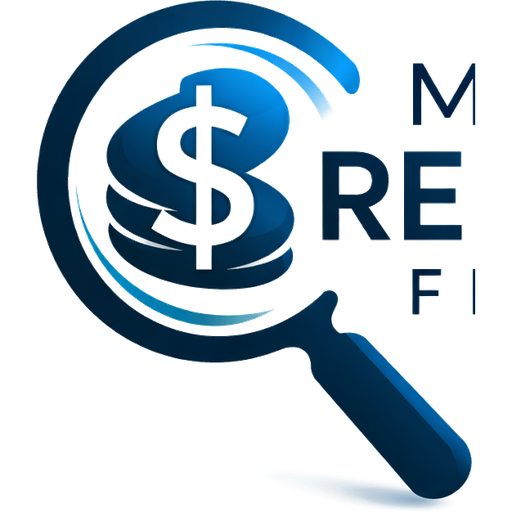
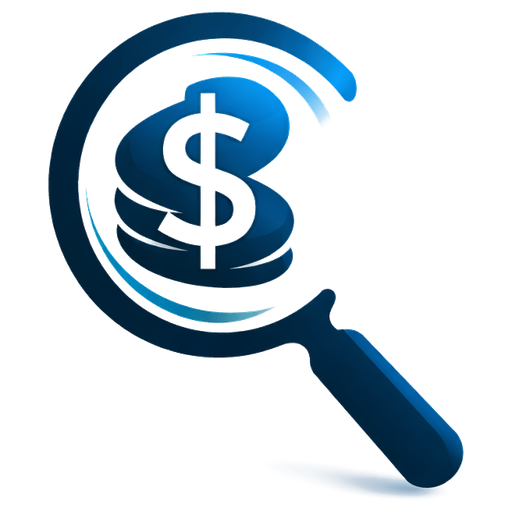
UI: brand block + split login, navy hero on client and lead records, Cases board over the 21 steps, plain content ground
Claude-Session: https://claude.ai/code/session_01UreL2XrfCxz3HoUNG5xzDS

diff --git a/src/app/(app)/clients/[id]/page.tsx b/src/app/(app)/clients/[id]/page.tsx
@@ -8,7 +8,7 @@ import { timeline, openSignRequest, channelState } from "@/lib/services/comms";
 import { db, schema } from "@/db";
 import { and, eq, isNull, ne } from "drizzle-orm";
 import * as R from "@/lib/rules";
-import { StageChip, SCChips, Section } from "@/components/ui";
+import { StageChip, SCChips } from "@/components/ui";
 import { SetInactiveButton, BinButton } from "@/components/actionsClient";
 import { SelectField } from "@/components/fields";
 import { LeadScreen } from "./LeadScreen";
@@ -32,20 +32,21 @@ export default async function ClientPage({ params, searchParams }: { params: Pro
   return (
     <>
       {c.checklist && <div className="warn-box mb-3.5">Migration check-list: {c.checklist}</div>}
-      <Section className="!pb-0 !bg-panel">
+      <div className="hero !pb-0">
         <div className="flex flex-wrap justify-between gap-x-6 gap-y-4 items-start">
-          <div><h1>{R.displayName(c)} <span className="meta font-head font-medium">{c.clientCode}</span></h1><div className="flex flex-wrap gap-2 items-center mt-2"><StageChip stage={c.stage} /><SCChips list={c.specialConditions} empty="" />{c.stage === "INACTIVE" && c.inactiveReason && <span className="chip">{c.inactiveReason}</span>}{c.stage === "LEAD" && <Link href={`/clients/${c.id}?tab=lead`} className="link text-[13px]">Lead screen</Link>}</div></div>
-          <div className="flex flex-wrap gap-x-7 gap-y-3 text-[12.5px] font-semibold text-ink3 items-end">
-            <div className="flex flex-col gap-0.5">Owner<span className="text-[14px] text-ink">{t.isAdmin ? <SelectField kind="client" id={c.id} field="ownerCode" value={c.ownerCode} options={users.map(u => u.userCode)} className="!h-7 !text-[13px] !w-auto" /> : c.ownerCode}</span></div>
-            <div className="flex flex-col gap-0.5">Last contact<Link href={`/clients/${c.id}?tab=summary#notes`} className="text-[14px] text-ink font-semibold">{c.lastContact ? `${R.fmtDate(c.lastContact, false)} · ${R.daysBetween(c.lastContact, t.today)} days` : "—"}</Link></div>
-            <div className="flex flex-col gap-0.5">Next follow-up<Link href={`/clients/${c.id}?tab=summary#followups`} className={`text-[14px] font-semibold ${nf?.overdue ? "red" : "text-ink"}`}>{nf ? `${R.fmtDate(nf.date, false)}${nf.overdue ? " · overdue" : ""}` : "—"}</Link></div>
-            <div className="flex flex-col gap-0.5">Open claims<Link href={`/clients/${c.id}?tab=claims`} className="text-[14px] text-ink font-semibold">{open.length}</Link></div>
-            <div className="flex flex-col gap-0.5">Last updated<span className="text-[14px] text-ink font-semibold">{c.lastUpdatedBy ?? "—"}, {R.fmtDate(c.lastUpdatedAt.toISOString().slice(0, 10))}</span></div>
-            <div className="flex gap-2">{c.stage !== "INACTIVE" && <SetInactiveButton clientId={c.id} openClaims={open.length} name={R.displayName(c)} />}{t.isAdmin && <BinButton kind="client" id={c.id} />}</div>
-          </div>
+          <div className="min-w-0"><div className="meta mb-1.5"><Link href={c.stage === "LEAD" ? "/leads" : "/clients"} className="no-underline">{c.stage === "LEAD" ? "Leads" : "Clients"}</Link> › {c.clientCode || "No code yet"}</div><h1>{R.displayName(c)}</h1><div className="flex flex-wrap gap-2 items-center mt-2.5"><StageChip stage={c.stage} /><SCChips list={c.specialConditions} empty="" />{c.stage === "INACTIVE" && c.inactiveReason && <span className="chip">{c.inactiveReason}</span>}{c.stage === "LEAD" && <Link href={`/clients/${c.id}?tab=lead`} className="link text-[13px]">Lead screen</Link>}</div></div>
+          <div className="flex gap-2 flex-wrap">{c.stage !== "INACTIVE" && <SetInactiveButton clientId={c.id} openClaims={open.length} name={R.displayName(c)} />}{t.isAdmin && <BinButton kind="client" id={c.id} />}</div>
+        </div>
+        <div className="stat-row">
+          <div>Owner{t.isAdmin ? <SelectField kind="client" id={c.id} field="ownerCode" value={c.ownerCode} options={users.map(u => u.userCode)} className="!h-7 !text-[13px] !w-auto" /> : <span>{c.ownerCode}</span>}</div>
+          <div>Last contact<Link href={`/clients/${c.id}?tab=summary#notes`}>{c.lastContact ? `${R.fmtDate(c.lastContact, false)} · ${R.daysBetween(c.lastContact, t.today)} days` : "—"}</Link></div>
+          <div>Next follow-up<Link href={`/clients/${c.id}?tab=summary#followups`} className={nf?.overdue ? "red" : ""}>{nf ? `${R.fmtDate(nf.date, false)}${nf.overdue ? " · overdue" : ""}` : "—"}</Link></div>
+          <div>Open claims<Link href={`/clients/${c.id}?tab=claims`}>{open.length}</Link></div>
+          <div>Lead amount<span>{R.money(c.leadAmount)}</span></div>
+          <div>Last updated<span>{c.lastUpdatedBy ?? "—"}, {R.fmtDate(c.lastUpdatedAt.toISOString().slice(0, 10), false)}</span></div>
         </div>
         <nav className="tabs" aria-label="Client tabs">{tabs.map(([k, l]) => <Link key={k} href={`/clients/${c.id}?tab=${k}`} className={tab === k ? "on" : ""}>{l}</Link>)}</nav>
-      </Section>
+      </div>
       <div className="mt-5">
         {tab === "profile" ? <ProfileTab {...ctx} /> : tab === "claims" ? <ClaimsTab {...ctx} focus={sp.claim} /> : tab === "documents" ? <DocumentsTab {...ctx} /> : <SummaryTab {...ctx} />}
       </div>

diff --git a/src/app/(app)/cases/page.tsx b/src/app/(app)/cases/page.tsx
@@ -1,0 +1,42 @@
+import Link from "next/link";
+import { requireTenant } from "@/lib/tenant";
+import { listClaims, allFollowUps, authorityMap } from "@/lib/services/queries";
+import * as R from "@/lib/rules";
+import { PageHead } from "@/components/PageHead";
+
+/** Cases: every open claim on a board of six stages, so the 21 sub-steps read as a pipeline. */
+export default async function CasesPage({ searchParams }: { searchParams: Promise<{ ha?: string; owner?: string; closed?: string }> }) {
+  const t = await requireTenant(); const sp = await searchParams;
+  const [ks, fus, { list: has }] = await Promise.all([listClaims(t, { view: "all", ha: sp.ha, owner: sp.owner }), allFollowUps(t), authorityMap(t)]);
+  const nextBy = new Map<string, R.FollowUp>(); for (const f of fus) if (f.claimId && !nextBy.has(f.claimId)) nextBy.set(f.claimId, f);
+  const open = ks.filter(k => k.progress != null && !R.CLOSING_STEPS.includes(k.progress)), closed = ks.filter(k => k.progress != null && R.CLOSING_STEPS.includes(k.progress)), blank = ks.filter(k => k.progress == null);
+  const owners = Array.from(new Set(ks.map(k => k.client.ownerCode))).sort();
+  const total = open.reduce((s, k) => s + (Number(k.amount) || 0), 0);
+  const q = (patch: Record<string, string | undefined>) => { const u = new URLSearchParams(); for (const [k, v] of Object.entries({ ...sp, ...patch })) if (v) u.set(k, v); const s = u.toString(); return `/cases${s ? `?${s}` : ""}`; };
+  return (
+    <>
+      <PageHead title="Cases" count={`${open.length} open · ${R.money(total)}`} lede="Every open claim, left to right from opened to paid. A red edge means its follow-up is overdue." right={<Link href="/claims" className="btn">Claims list & views</Link>} />
+      <div className="flex flex-wrap gap-x-5 gap-y-2 mb-4 items-center">
+        <div className="views"><Link href={q({ ha: undefined })} className={!sp.ha ? "on" : ""}>All authorities</Link>{has.filter(h => ks.some(k => k.authorityId === h.id)).map(h => <Link key={h.id} href={q({ ha: h.id })} className={sp.ha === h.id ? "on" : ""}>{h.name}</Link>)}</div>
+        {owners.length > 1 && <div className="views"><span className="meta self-center">Owner</span><Link href={q({ owner: undefined })} className={!sp.owner ? "on" : ""}>All</Link>{owners.map(o => <Link key={o} href={q({ owner: o })} className={sp.owner === o ? "on" : ""}>{o}</Link>)}</div>}
+      </div>
+      <div className="board">
+        {R.CASE_STAGES.map(st => { const cards = open.filter(k => st.steps.includes(k.progress!)); const sum = cards.reduce((s, k) => s + (Number(k.amount) || 0), 0); return (
+          <div key={st.key} className="col"><h3>{st.label}<span>{cards.length}{sum ? ` · ${R.money(sum).replace(/\.\d\d$/, "")}` : ""}</span></h3>
+            {cards.map(k => { const nf = nextBy.get(k.id); return <Link key={k.id} href={`/clients/${k.clientId}?tab=claims&claim=${k.id}`} className={`ccard ${nf?.overdue ? "over" : ""}`}>
+              <b>{R.displayName(k.client)}</b>
+              <span className="meta">{k.claimId} · {k.authority.name}</span>
+              <div className="mt-1.5 font-semibold tabular-nums">{R.money(k.amount, k.currency === "NZD" ? "NZD" : undefined)}</div>
+              <div className="meta">{k.progress} · {R.stepName(k.progress, t.org.shortName).replace(/^Holding Authority /, "HA ").replace("Authority to Act", "A2A")}</div>
+              {nf && <div className={`meta mt-1 ${nf.overdue ? "red" : ""}`}>{nf.overdue ? "Overdue " : "Follow up "}{R.fmtDate(nf.date, false)} · {nf.kind === "ha" ? "chase authority" : nf.kind === "a2a" ? "chase A2A" : nf.sub || "follow-up"}</div>}
+            </Link>; })}
+            {!cards.length && <div className="meta px-1.5 pb-1">{st.hint}</div>}
+          </div>); })}
+      </div>
+      <div className="flex flex-wrap gap-5 mt-5 meta">
+        <span>{closed.length} closed claim{closed.length === 1 ? "" : "s"} — <Link href="/claims?view=all" className="link">see the full list</Link></span>
+        {blank.length > 0 && <span className="chip chip-amber">{blank.length} with no progress set (migration check-list)</span>}
+      </div>
+    </>
+  );
+}

diff --git a/src/app/(app)/clients/[id]/LeadScreen.tsx b/src/app/(app)/clients/[id]/LeadScreen.tsx
@@ -16,15 +16,21 @@ export function LeadScreen({ t, c, fus, byId, tl, openSign, emailState, smsState
   const search = c.searchLog[0]; const hasEmail = !!firstEmail(c.email), hasMobile = !!toE164(c.phoneMobile);
   return (
     <>
-      <div className="meta mb-2.5"><Link href="/leads" className="text-ink3">Leads</Link> › {c.leadIdentifier || "No identifier"}</div>
       {c.checklist && <div className="warn-box mb-3.5">Migration check-list: {c.checklist}</div>}
-      <Section className="!bg-panel">
-        <div className="flex flex-wrap items-center gap-x-6 gap-y-4">
-          <div className="flex-1 basis-[360px]"><h1>{R.displayName(c)}</h1><div className="flex flex-wrap gap-2 items-center mt-2"><span className="chip">Lead</span><SCChips list={c.specialConditions} empty="" /><ConsentChips clientId={c.id} email={emailState} sms={smsState} /><span className="meta">{c.clientType === "BUSINESS" ? "Business" : "Individual"} · Owner <b>{c.ownerCode}</b> · Last updated by <b>{c.lastUpdatedBy ?? "—"}</b>, {R.fmtDate(c.lastUpdatedAt.toISOString().slice(0, 10))}</span></div></div>
-          <label className="label uppercase tracking-wider text-[12px]">Lead Identifier<LeadIdentifierSelect clientId={c.id} value={c.leadIdentifier} /></label>
-          <div className="flex gap-2.5 flex-wrap"><LogCallButton clientId={c.id} hasEmail={hasEmail} emailState={emailState} primary /><SendMessageButton clientId={c.id} templateKey="info_email" label="Send info email" /><SendA2AButton clientId={c.id} hasEmail={hasEmail} hasMobile={hasMobile} open={openSign} /><Link href={`/clients/${c.id}?tab=profile`} className="btn">Full record</Link><SetInactiveButton clientId={c.id} openClaims={0} name={R.displayName(c)} /></div>
+      <div className="hero">
+        <div className="flex flex-wrap items-start gap-x-6 gap-y-4">
+          <div className="flex-1 basis-[360px] min-w-0"><div className="meta mb-1.5"><Link href="/leads" className="no-underline">Leads</Link> › {c.leadIdentifier || "No identifier"}</div><h1>{R.displayName(c)}</h1><div className="flex flex-wrap gap-2 items-center mt-2.5"><span className="chip chip-blue">Lead</span><SCChips list={c.specialConditions} empty="" /><ConsentChips clientId={c.id} email={emailState} sms={smsState} /></div></div>
+          <label className="label text-[12px]">Lead Identifier<LeadIdentifierSelect clientId={c.id} value={c.leadIdentifier} /></label>
         </div>
-      </Section>
+        <div className="stat-row">
+          <div>Lead amount<span>{R.money(c.leadAmount)}</span></div>
+          <div>Last contact<span>{c.lastContact ? `${R.fmtDate(c.lastContact, false)} · ${R.daysBetween(c.lastContact, t.today)}d` : "never"}</span></div>
+          <div>Next follow-up<span className={fus[0]?.overdue ? "red" : ""}>{fus[0] ? `${R.fmtDate(fus[0].date, false)}${fus[0].overdue ? " · overdue" : ""}` : "—"}</span></div>
+          <div>Owner<span>{c.ownerCode}</span></div>
+          <div>Source<span>{c.source || "—"}</span></div>
+        </div>
+        <div className="flex gap-2.5 flex-wrap mt-5"><LogCallButton clientId={c.id} hasEmail={hasEmail} emailState={emailState} primary /><SendMessageButton clientId={c.id} templateKey="info_email" label="Send info email" /><SendA2AButton clientId={c.id} hasEmail={hasEmail} hasMobile={hasMobile} open={openSign} /><Link href={`/clients/${c.id}?tab=profile`} className="btn">Full record</Link><SetInactiveButton clientId={c.id} openClaims={0} name={R.displayName(c)} /></div>
+      </div>
       <div className="flex flex-wrap gap-5 items-start mt-5">
         <div className="flex-1 basis-[420px] flex flex-col gap-5 min-w-0">
           <Section title="Contact"><div className="grid2">

diff --git a/src/components/Shell.tsx b/src/components/Shell.tsx
@@ -4,24 +4,28 @@ import type { Tenant } from "@/lib/tenant";
 import { SearchBox } from "./SearchBox";
 import { SideNav, UserMenu } from "./NavClient";
 
+/** App frame: brand block + navigation down the left, search and account across the top, calm content area. */
 export function Shell({ t, due, children }: { t: Tenant; due: number; children: React.ReactNode }) {
   const groups: { label: string; items: { href: string; label: string; badge?: number }[] }[] = [
-    { label: "Work", items: [{ href: "/today", label: "Today" }, { href: "/leads", label: "Leads" }, { href: "/clients", label: "Clients" }, { href: "/claims", label: "Claims" }, { href: "/followups", label: "Follow-ups", badge: due }] },
-    { label: "Insight", items: [{ href: "/reports", label: "Reports" }] },
+    { label: "Work", items: [{ href: "/today", label: "Today" }, { href: "/leads", label: "Leads" }, { href: "/clients", label: "Clients" }, { href: "/cases", label: "Cases" }, { href: "/followups", label: "Follow-ups", badge: due }] },
+    { label: "Insight", items: [{ href: "/claims", label: "Claims" }, { href: "/reports", label: "Reports" }] },
     { label: "Setup", items: [{ href: "/import", label: "Import leads" }, ...(t.isAdmin ? [{ href: "/settings", label: "Settings" }] : [])] },
   ];
   return (
     <div className="h-screen grid grid-cols-1 md:grid-cols-[var(--navW)_1fr] grid-rows-[var(--topH)_auto_1fr] md:grid-rows-[var(--topH)_1fr]">
-      <header className="col-span-full flex items-center gap-[18px] px-4 sm:px-[22px] border-b border-line bg-bg">
-        <Link href="/today" aria-label="Home" className="flex items-center"><Image src="/mrf-logo.png" alt={t.org.name} width={34} height={28} className="h-7 w-auto" priority /></Link>
-        <span className="font-head font-medium text-[15px] text-ink2 pl-[18px] border-l border-line hidden sm:inline">{t.org.shortName} · {t.org.name}</span>
-        <div className="flex-1" />
+      <Link href="/today" aria-label="Home" className="brand hidden md:flex row-span-1 md:row-start-1 md:col-start-1 items-center gap-3 px-5 border-b border-r border-line no-underline">
+        <Image src="/brand/mark.png" alt="" width={34} height={34} className="h-[34px] w-[34px]" priority />
+        <span className="leading-none"><span className="block font-head font-semibold text-[15.5px] tracking-[-.01em] text-ink">My Refund Finder</span><span className="block text-[11.5px] text-ink3 mt-1">{t.org.shortName} workspace</span></span>
+      </Link>
+      <header className="col-span-full md:col-span-1 md:col-start-2 md:row-start-1 flex items-center gap-4 px-4 sm:px-7 border-b border-line bg-bg">
+        <Link href="/today" aria-label="Home" className="md:hidden flex items-center"><Image src="/brand/mark.png" alt="" width={30} height={30} priority /></Link>
         <SearchBox />
+        <div className="flex-1" />
         <UserMenu code={t.membership.userCode} name={t.user.name} role={t.membership.role} org={t.org.name} />
       </header>
       <SideNav groups={groups} />
-      <main className="overflow-y-auto overflow-x-hidden grid-bg">
-        <div className="px-4 sm:px-11 py-7 sm:py-10 max-w-[1280px]">{children}</div>
+      <main className="overflow-y-auto overflow-x-hidden bg-bg md:col-start-2 md:row-start-2">
+        <div className="px-4 sm:px-10 py-6 sm:py-9 max-w-[1240px]">{children}</div>
       </main>
     </div>
   );

diff --git a/src/app/globals.css b/src/app/globals.css
@@ -105,4 +105,39 @@
   .span2 { @apply sm:col-span-2; }
   .span3 { @apply sm:col-span-3; }
   .eyebrow { @apply text-[12px] font-semibold tracking-[.08em] uppercase text-ink3; }
+  /* Record hero: the one navy moment on a page. Everything below it is hairline panels. */
+  .hero { @apply rounded-[16px] px-6 py-5 text-white; background: linear-gradient(135deg, #0C3C60 0%, #124B78 60%, #185A8E 100%); }
+  .hero h1 { @apply text-white; }
+  .hero .meta, .hero .meta b { color: rgba(255,255,255,.72); }
+  .hero .meta b { color: #fff; }
+  .hero .chip { border-color: rgba(255,255,255,.35); color: #fff; }
+  .hero .chip-lime { background: var(--color-lime); border-color: var(--color-lime); color: #0C3C60; }
+  .hero .chip-red { background: #e34749; border-color: #e34749; color: #fff; }
+  .hero .chip-amber { background: var(--color-amber); border-color: var(--color-amber); color: #0C3C60; }
+  .hero .chip-blue { background: rgba(255,255,255,.14); border-color: rgba(255,255,255,.35); color: #fff; }
+  .hero .btn { border-color: rgba(255,255,255,.4); color: #fff; }
+  .hero .btn:hover { border-color: #fff; }
+  .hero .btn-primary { background: var(--color-lime); border-color: var(--color-lime); color: #0C3C60; }
+  .hero .btn-danger { color: #ffb4b5; }
+  .hero .input, .hero select.input { background: rgba(255,255,255,.1); border-color: rgba(255,255,255,.35); color: #fff; }
+  .hero .label { color: rgba(255,255,255,.65); }
+  .hero .link, .hero .tabs a { color: #fff; }
+  .hero .link { text-decoration-color: rgba(255,255,255,.4); }
+  .hero .red { color: #ffb4b5 !important; }
+  .hero .stat-row { @apply flex flex-wrap gap-x-8 gap-y-3 mt-5 pt-4; border-top: 1px solid rgba(255,255,255,.18); }
+  .hero .stat-row > div { @apply flex flex-col gap-0.5 text-[12px]; color: rgba(255,255,255,.62); }
+  .hero .stat-row > div > * { @apply text-[15px] font-semibold text-white no-underline; }
+  .hero .tabs { border-color: rgba(255,255,255,.18); @apply mt-5; }
+  .hero .tabs a { color: rgba(255,255,255,.65); }
+  .hero .tabs a.on { color: #fff; border-color: var(--color-lime); }
+  .board { @apply grid gap-3 items-start grid-cols-1 sm:grid-cols-2 lg:grid-cols-3 min-[1560px]:grid-cols-6; }
+  .col { @apply rounded-[14px] p-2.5 min-w-0; background: var(--panel); }
+  .col h3 { @apply flex justify-between items-baseline text-[14px] px-1.5 pt-1 pb-2 gap-2; }
+  .col h3 span { @apply whitespace-nowrap; }
+  .col h3 span { @apply text-[12.5px] font-normal text-ink3; }
+  .ccard { @apply block rounded-[10px] border border-line px-3 py-2.5 mb-2 no-underline text-[13.5px] leading-snug; background: var(--bg); }
+  .ccard:hover { border-color: var(--ink3); }
+  .ccard b { @apply block text-[14px]; }
+  .ccard .meta { @apply text-[12.5px]; }
+  .ccard.over { box-shadow: inset 3px 0 0 var(--color-red); }
 }

diff --git a/src/app/(auth)/layout.tsx b/src/app/(auth)/layout.tsx
@@ -1,10 +1,21 @@
 import Image from "next/image";
 export default function AuthLayout({ children }: { children: React.ReactNode }) {
   return (
-    <div className="min-h-screen grid-bg flex items-start justify-center px-4 py-12">
-      <div className="w-full max-w-[460px]">
-        <div className="flex items-center gap-3 mb-6"><Image src="/mrf-logo.png" alt="MRFP" width={56} height={46} className="h-11 w-auto" /><div><div className="font-head font-semibold text-[22px] tracking-tight">MRFP</div><div className="meta">Leads, clients, claims and follow-ups for refund finders</div></div></div>
-        {children}
+    <div className="min-h-screen grid lg:grid-cols-[1fr_1fr]">
+      <aside className="hidden lg:flex flex-col justify-between bg-navy text-white px-14 py-12 relative overflow-hidden">
+        <div className="absolute inset-0 grid-bg opacity-60" style={{ ["--grid" as string]: "rgba(255,255,255,.06)", ["--dot" as string]: "rgba(255,255,255,.18)" }} aria-hidden />
+        <Image src="/brand/lockup.png" alt="My Refund Finder" width={300} height={200} className="relative w-[280px] h-auto brightness-0 invert" priority />
+        <div className="relative max-w-[42ch]">
+          <p className="font-head text-[34px] leading-[1.1] tracking-[-.02em] font-semibold">Every lead, claim and follow-up, in one place.</p>
+          <p className="mt-4 text-[15.5px] text-white/70">Calls logged, authorities chased, Authority to Act signed online — with the follow-up dates worked out for you.</p>
+        </div>
+        <p className="relative text-[12.5px] text-white/50">My Refund Finder Platform</p>
+      </aside>
+      <div className="flex items-center justify-center px-5 py-12">
+        <div className="w-full max-w-[400px]">
+          <Image src="/brand/lockup.png" alt="My Refund Finder" width={200} height={133} className="lg:hidden w-[170px] h-auto mb-8" priority />
+          {children}
+        </div>
       </div>
     </div>
   );

diff --git a/src/components/NavClient.tsx b/src/components/NavClient.tsx
@@ -9,12 +9,12 @@ export function SideNav({ groups }: { groups: Group[] }) {
   const path = usePathname();
   const on = (href: string) => path === href || path.startsWith(href + "/");
   return (
-    <nav aria-label="Main" className="border-b md:border-b-0 md:border-r border-line px-3 py-2 md:py-[18px] md:pb-6 md:overflow-y-auto bg-bg flex md:block gap-1 overflow-x-auto">
+    <nav aria-label="Main" className="border-b md:border-b-0 md:border-r border-line px-3 py-2 md:py-4 md:pb-6 md:overflow-y-auto bg-bg flex md:block gap-1 overflow-x-auto md:row-start-2">
       {groups.map(g => (
         <div key={g.label} className="flex md:block gap-1 items-center">
-          <div className="hidden md:block text-[12.5px] text-ink3 px-3 pt-4 pb-1.5 first:pt-0">{g.label}</div>
+          <div className="hidden md:block text-[12px] text-ink3 px-3 pt-5 pb-1.5 first:pt-1">{g.label}</div>
           {g.items.map(i => (
-            <Link key={i.href} href={i.href} aria-current={on(i.href) ? "page" : undefined} className={`flex items-center justify-between md:w-full rounded-lg px-3 py-2 text-[15px] no-underline whitespace-nowrap ${on(i.href) ? "text-ink bg-panel shadow-[inset_3px_0_0_var(--color-lime)]" : "text-ink2 hover:text-ink hover:bg-panel"}`}>
+            <Link key={i.href} href={i.href} aria-current={on(i.href) ? "page" : undefined} className={`flex items-center justify-between md:w-full rounded-lg px-3 py-[7px] text-[14.5px] no-underline whitespace-nowrap ${on(i.href) ? "text-ink bg-panel font-semibold shadow-[inset_3px_0_0_var(--color-lime)]" : "text-ink2 hover:text-ink hover:bg-panel"}`}>
               <span>{i.label}</span>
               {i.badge ? <span className="ml-2 bg-red text-white rounded-full px-1.5 py-px text-[12px] font-semibold leading-tight" aria-label={`${i.badge} due`}>{i.badge}</span> : null}
             </Link>

diff --git a/src/lib/rules.ts b/src/lib/rules.ts
@@ -13,6 +13,15 @@ export const STEPS: [number, string][] = [
 ];
 export const stepName = (n: number | null | undefined, org = "MRF") => n ? (STEPS.find(s => s[0] === n)?.[1] ?? "").replace("{ORG}", org) : "";
 export const CLOSING_STEPS = [16, 17, 18, 19, 20, 21];
+/** The six stages the Cases board groups the 21 steps into. */
+export const CASE_STAGES: { key: string; label: string; steps: number[]; hint: string }[] = [
+  { key: "start", label: "Not started", steps: [1], hint: "Opened, nothing sent yet" },
+  { key: "a2a", label: "Authority to Act", steps: [2, 3], hint: "Sent · signed" },
+  { key: "docs", label: "Evidence & forms", steps: [4, 5, 6], hint: "ID & address · authority forms" },
+  { key: "ha", label: "With the authority", steps: [7, 8, 9], hint: "Submitted · more info · resent" },
+  { key: "refund", label: "Approved & refund", steps: [10, 11, 12], hint: "Approved · refund received" },
+  { key: "invoice", label: "Invoice & review", steps: [13, 14, 15], hint: "Invoice sent · paid · review" },
+];
 export const PAID_STEPS = [14, 15, 16, 17]; // reached MRF Payment Received
 export const MANUAL_CLOSE_OPTIONS = [21, 19, 18, 20];
 export const MILESTONE_FIELD: Record<number, string> = { 5: "haFormSent", 6: "haFormSigned", 7: "dateSubmitted", 10: "claimApproved", 11: "refundReceived", 12: "refundReceived", 13: "invoiceSent", 14: "paymentReceived", 15: "reviewRequested", 16: "reviewCompleted" };

diff --git a/src/app/(auth)/login/page.tsx b/src/app/(auth)/login/page.tsx
@@ -6,8 +6,8 @@ import { logInAction } from "@/actions";
 export default function LoginPage() {
   const [state, action, pending] = useActionState(logInAction, null);
   return (
-    <form action={action} className="card-plain flex flex-col gap-3.5 !bg-bg">
-      <h1 className="text-[22px]">Log in</h1>
+    <form action={action} className="flex flex-col gap-3.5">
+      <div><h1 className="text-[26px]">Log in</h1><p className="meta mt-1">Use the email and password your Admin set up.</p></div>
       {state && !state.ok && <div className="warn-box">{state.error}</div>}
       <label className="label">Email<input name="email" type="email" className="input" required autoComplete="email" /></label>
       <label className="label">Password<input name="password" type="password" className="input" required autoComplete="current-password" /></label>
